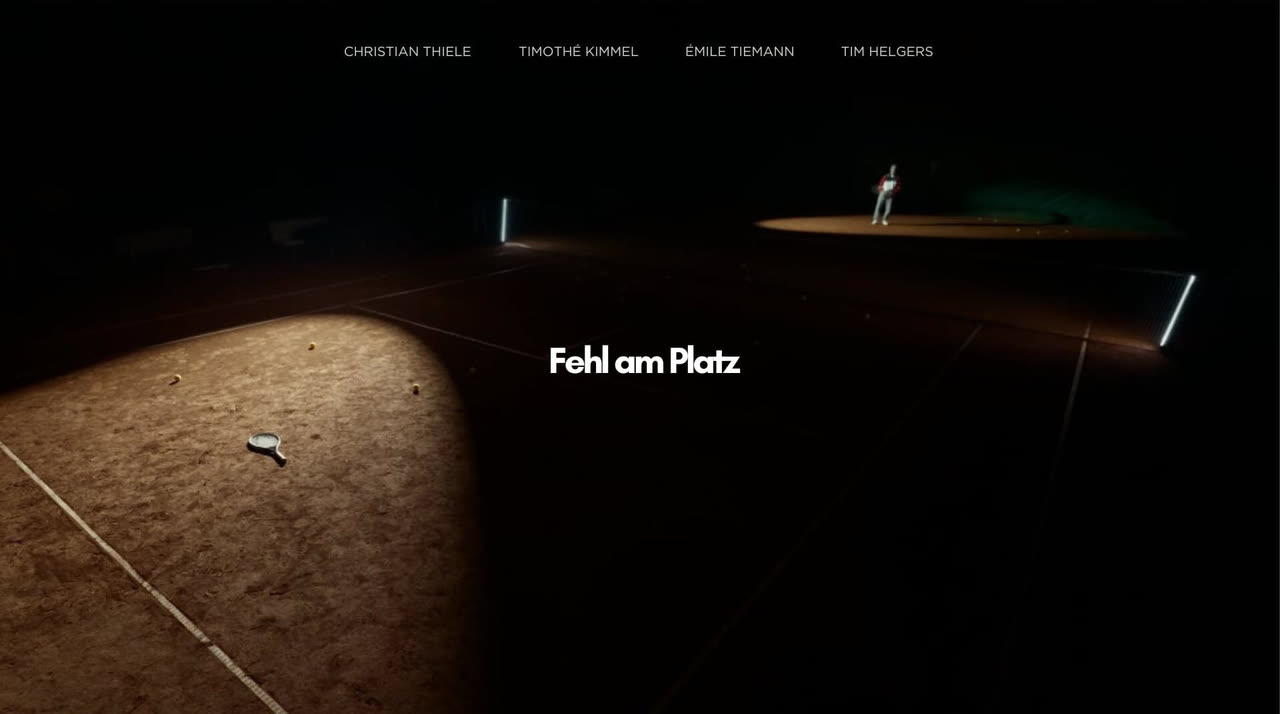
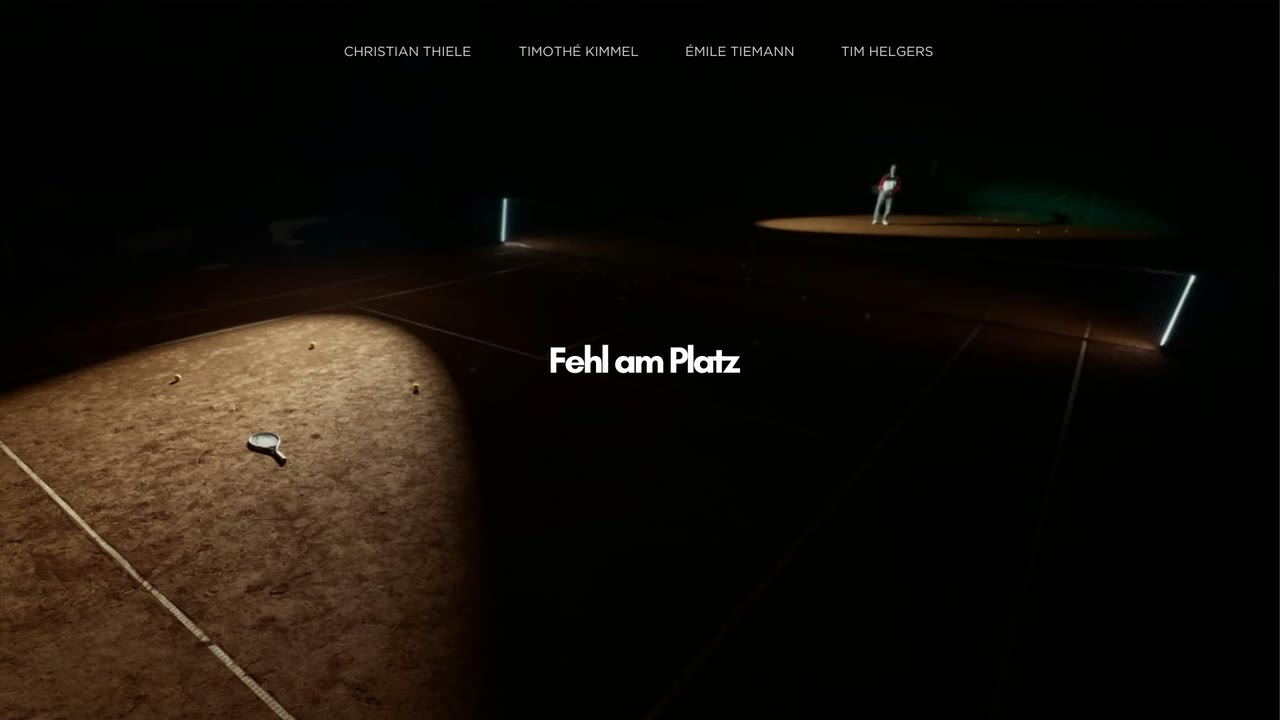
Eigene Thumbnails für Denali, Autumn, Fehl am Platz, Fujifilm und Night outside

diff --git a/index.html b/index.html
@@ -8,7 +8,7 @@
   <link rel="preconnect" href="https://fonts.googleapis.com">
   <link rel="preconnect" href="https://fonts.gstatic.com" crossorigin>
   <link href="https://fonts.googleapis.com/css2?family=Big+Shoulders+Display:wght@700;800&family=Geist:wght@400;500;600&family=Geist+Mono:wght@400;500&display=swap" rel="stylesheet">
-  <link rel="stylesheet" href="style.css?v=17">
+  <link rel="stylesheet" href="style.css?v=18">
 </head>
 <body>
 
@@ -140,6 +140,6 @@
     <div class="lightbox-frame"></div>
   </div>
 
-  <script src="main.js?v=17"></script>
+  <script src="main.js?v=18"></script>
 </body>
 </html>
